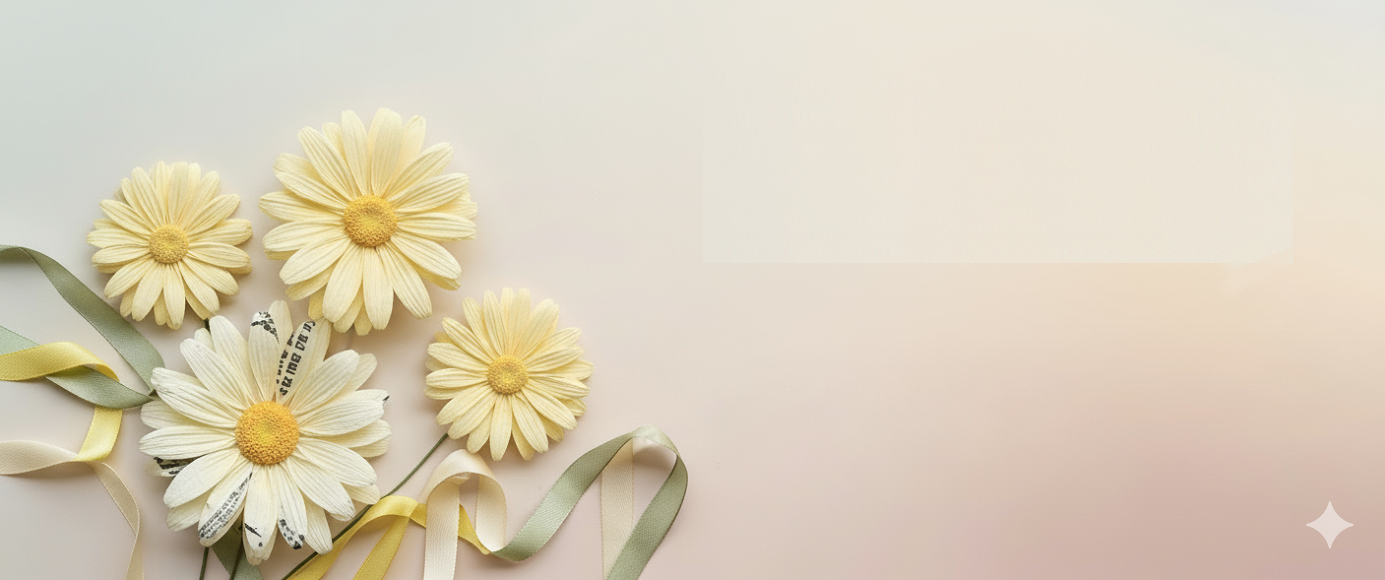
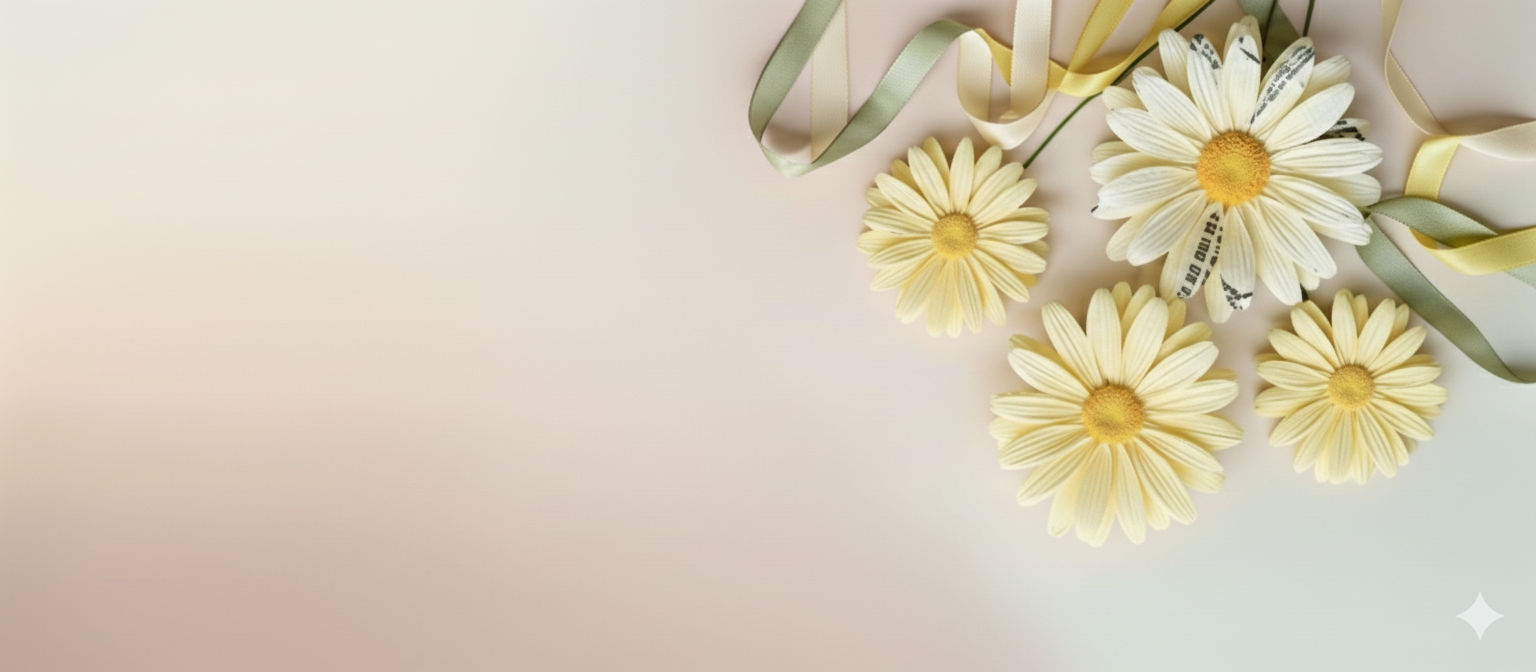
cambios finales

diff --git a/nosotros.html b/nosotros.html
@@ -7,71 +7,37 @@
   <link rel="stylesheet" href="https://cdn.jsdelivr.net/npm/bootstrap@5.3.7/dist/css/bootstrap.min.css">
   <link rel="stylesheet" href="https://cdn.jsdelivr.net/npm/bootstrap-icons/font/bootstrap-icons.css">
   <link rel="stylesheet" href="styles.css">
-  <link rel="stylesheet" href="/css/styles.css">
-  <link rel="stylesheet" href="https://fonts.googleapis.com/css2?family=Material+Symbols+Outlined" />
 </head>
 <body>
   <!-- Header -->
   <header>
-    <nav class="navbar navbar-expand-lg bg-body-tertiary fixed-top">
-  <div class="container-fluid">
-
-    <!-- logo -->
-    <a class="navbar-brand" href="index.html">Cataleya</a>
-
-    <!-- hamburguesa -->
-    <button class="navbar-toggler" type="button" data-bs-toggle="collapse" data-bs-target="#navbarNavDropdown">
-      <span class="navbar-toggler-icon"></span>
-    </button>
-
-    <form class="d-flex" role="search">
-          <input class="form-control me-2" type="Search" placeholder="Buscar">
-          <button class="btn btn-outline-success" type="submit">Buscar</button>
-        </form>
-
-    <!-- contenedor flex para menú + buscador + botones -->
-    <div class="collapse navbar-collapse d-flex justify-content-between" id="navbarNavDropdown">
-
-      <!-- menu -->
-      <ul class="navbar-nav mx-auto">
-        <li class="nav-item"><a class="nav-link active" href="index.html">Inicio</a></li>
-        <li class="nav-item"><a class="nav-link" href="nosotros.html">Nosotros</a></li>
-        <li class="nav-item dropdown">
-          <a class="nav-link dropdown-toggle" href="catalogo.html" data-bs-toggle="dropdown">Catalogo</a>
-          <ul class="dropdown-menu">
-            <li><a class="dropdown-item" href="catalogo.html">Cumpleaños</a></li>
-            <li><a class="dropdown-item" href="catalogo.html">Graduaciones</a></li>
-            <li><a class="dropdown-item" href="catalogo.html">Eventos especiales</a></li>
-          </ul>
-        </li>
-        <li class="nav-item"><a class="nav-link" href="contacto.html">Contacto</a></li>
-      </ul>
-
-      <!-- sign y login -->
-      <div class="d-flex align-items-center gap-2">
-        <button class="btn btn-light" id="cart" >
-            <span class="material-symbols-outlined">
-         shopping_cart
-            </span>
+    <nav class="navbar navbar-expand-lg bg-body-tertiary fixed-top shadow-sm">
+      <div class="container-fluid">
+        <a class="navbar-brand fw-bold" href="index.html">Cataleya</a>
+        <button class="navbar-toggler" type="button" data-bs-toggle="collapse" data-bs-target="#navbarNavDropdown">
+          <span class="navbar-toggler-icon"></span>
         </button>
-
-                    <p id="datos-usuario" class="oculto"></p>
-                    <button class="btn btn-secondary shadow" class="oculto" id="btn-logout">
-                        Cerrar Sesión
-                    </button>
-                    <button class="btn btn-primary shadow" data-bs-toggle="modal" data-bs-target="#loginModal" id="btn-open-login">
-                        Iniciar Sesión
-                    </button>
+        <div class="collapse navbar-collapse justify-content-between" id="navbarNavDropdown">
+          <ul class="navbar-nav mx-auto">
+            <li class="nav-item"><a class="nav-link" href="index.html">Inicio</a></li>
+            <li class="nav-item"><a class="nav-link active" href="nosotros.html">Nosotros</a></li>
+            <li class="nav-item dropdown">
+              <a class="nav-link dropdown-toggle" href="catalogo.html" data-bs-toggle="dropdown">Catálogo</a>
+              <ul class="dropdown-menu">
+                <li><a class="dropdown-item" href="catalogo.html">Cumpleaños</a></li>
+                <li><a class="dropdown-item" href="catalogo.html">Graduaciones</a></li>
+                <li><a class="dropdown-item" href="catalogo.html">Eventos especiales</a></li>
+              </ul>
+            </li>
+            <li class="nav-item"><a class="nav-link" href="contacto.html">Contacto</a></li>
+          </ul>
+        </div>
       </div>
-
-    </div>
-
-  </div>
-</nav>
+    </nav>
   </header>
 
   <!-- Hero Section -->
-  <section class="hero bg-light py-5 mt-5 text-center">
+  <section class="hero py-5 mt-4 text-center" id="banner-nosotros">
     <div class="container">
       <h1 class="fw-bold">Sobre Nosotros</h1>
       <p class="lead">Flores eternas y detalles que inspiran recuerdos inolvidables</p>
@@ -101,7 +67,7 @@
     </div>
   </section>
   <!-- introduccion de nosotras -->
-  <section class="hero py-5 mt-5 text-center">
+  <section class="hero py-5 mt-5 text-center pink">
     <div class="container">
       <h1 class="fw-bold">te brindamos la confianza necesaria para pensar y contar con nosotros 
                             en esos momentos especiales</h1>
@@ -144,7 +110,7 @@
     <div class="container">
       <h2 class="fw-bold">¿Listo para sorprender con flores eternas?</h2>
       <p>Haz tu pedido ahora y lleva un detalle que durará por siempre.</p>
-      <a href="contacto.html" class="btn btn-light btn-lg">Contactar</a>
+      <a href="contacto.html" class="btn btn-primary">Contactar</a>
     </div>
   </section>
 
@@ -190,76 +156,6 @@
     </div>
   </footer>
 
-<!-- Modal de logueo -->
-    <div class="modal fade" id="loginModal" tabindex="-1" aria-labelledby="loginModalLabel" aria-hidden="true">
-        <div class="modal-dialog">
-            <div class="modal-content">
-                <div class="modal-header">
-                    <h5 class="modal-title" id="loginModalLabel">Iniciar Sesión</h5>
-                    <button type="button" class="btn-close" data-bs-dismiss="modal" aria-label="Close"></button>
-                </div>
-                <div class="modal-body">
-                    <form>
-                        <div class="mb-3">
-                            <label for="loginEmail" class="form-label">Correo electrónico</label>
-                            <input type="email" class="form-control" id="loginEmail" placeholder="nombre@ejemplo.com">
-                        </div>
-                        <div class="mb-3">
-                            <label for="loginPassword" class="form-label">Contraseña</label>
-                            <input type="password" class="form-control" id="loginPassword" placeholder="********">
-                        </div>
-                    </form>
-                </div>
-                <div class="modal-footer d-flex justify-content-between">
-                      <button type="button" class="btn btn-primary" id="btn-login">Ingresar</button>
-                    <button type="button" class="btn btn-link" id="btn-open-register">¿No tienes cuenta? Regístrate</button>
-                </div>
-            </div>
-        </div>
-    </div>
-<!-- Modal de registro -->
-    <div class="modal fade" id="registerModal" tabindex="-1" aria-labelledby="registerModalLabel" aria-hidden="true">
-        <div class="modal-dialog">
-            <div class="modal-content">
-                <div class="modal-header">
-                    <h5 class="modal-title" id="registerModalLabel">Registro de Usuario</h5>
-                    <button type="button" class="btn-close" data-bs-dismiss="modal" aria-label="Close"></button>
-                </div>
-                <div class="modal-body">
-                    <form>
-                        <div class="mb-3">
-                            <label for="registerName" class="form-label">Nombre de Usuario</label>
-                            <input type="text" class="form-control" id="registerName" placeholder="Tu nombre completo">
-                        </div>
-                        <div class="mb-3">
-                            <label for="registerEmail" class="form-label">Correo electrónico</label>
-                            <input type="email" class="form-control" id="registerEmail" placeholder="nombre@ejemplo.com">
-                        </div>
-                        <div class="mb-3">
-                            <label for="registerPassword" class="form-label">Contraseña</label>
-                            <input type="password" class="form-control" id="registerPassword" placeholder="********">
-                        </div>
-                        <div class="mb-3">
-                            <label for="confirmPassword" class="form-label">Confirmar Contraseña</label>
-                            <input type="password" class="form-control" id="confirmPassword" placeholder="********">
-                        </div>
-                    </form>
-                </div>
-                <div class="modal-footer d-flex justify-content-between">
-                    <button type="button" class="btn btn-secondary" id="btn-back-to-login">Regresar a Iniciar Sesión</button>
-                    <button type="button" class="btn btn-success" id="btn-register">Registrar</button>
-                </div>
-            </div>
-        </div>
-    </div>
-
-
-   
- <script src="https://cdn.jsdelivr.net/npm/bootstrap@5.0.2/dist/js/bootstrap.bundle.min.js" integrity="sha384-MrcW6ZMFYlzcLA8Nl+NtUVF0sA7MsXsP1UyJoMp4YLEuNSfAP+JcXn/tWtIaxVXM" crossorigin="anonymous"></script>
-    <script src="js/script.js"></script>
-    <script src="js/registro.js"></script>
-    <script src="js/logueo.js"></script>
-    <script src="js/mostrarUsuarios.js"></script>
-
+  <script src="https://cdn.jsdelivr.net/npm/bootstrap@5.0.2/dist/js/bootstrap.bundle.min.js"></script>
 </body>
 </html>

diff --git a/styles.css b/styles.css
@@ -426,3 +426,80 @@ color: #e69a00;
   from { opacity: 0; transform: scale(0.9);}
   to   { opacity: 1; transform: scale(1);}
 }
+
+.testimonios-seccion {
+  padding: 50px 20px;
+  background-color: #f8f8f8; /* Color de fondo similar al de la imagen */
+  display: flex;
+  flex-direction: column;
+  gap: 30px; /* Espacio entre los testimonios */
+  max-width: 900px;
+  margin: 0 auto;
+}
+
+.testimonial-contenedor {
+  display: flex;
+  align-items: center;
+  gap: 30px; /* Espacio entre el texto y la imagen */
+  background-color: #ffffff;
+  padding: 20px;
+  border-radius: 8px;
+  box-shadow: 0 4px 6px rgba(0, 0, 0, 0.1); /* Sombra para el recuadro */
+}
+
+.testimonial-contenedor:nth-child(even) {
+  flex-direction: row-reverse; /* Para invertir el orden de la segunda caja */
+}
+
+.testimonial-contenido {
+  flex: 1;
+}
+
+.testimonial-imagen {
+  flex: 1;
+  max-width: 45%; /* Ancho de la imagen */
+  text-align: center;
+}
+
+.testimonial-imagen img {
+  width: 100%;
+  height: auto;
+  border-radius: 8px; /* Bordes redondeados para la imagen */
+}
+
+.comillas {
+  font-size: 4em; /* Tamaño grande para las comillas */
+  color: #c0c0c0; /* Color gris suave */
+  font-family: serif;
+  margin-bottom: -20px;
+  line-height: 0.5;
+}
+
+.testimonial-texto {
+  font-size: 1.2em;
+  line-height: 1.6;
+  color: #333;
+  margin: 0;
+  font-family: Arial, Helvetica, sans-serif; /* Fuente similar a la de la imagen */
+}
+.bg-rose {
+  background-color: #f0dedf; /* rosado pastel */
+}
+
+.pink {
+  background-color: #e0c9cb;
+}
+
+#banner-nosotros {
+    background: 
+    linear-gradient(rgba(228, 178, 186, 0.37), rgba(255, 255, 255, 0.466)),
+    url("/imgs/nosotros banner.png") center/cover no-repeat;
+  background-position: center;   /* centra la imagen */
+  background-repeat: no-repeat;  /* evita que se repita */
+  background-size: cover;        /* que cubra todo el contenedor sin deformarse */
+  height: 300px;                 /* ajusta la altura del banner */
+  display: flex;                 /* opcional: para centrar el texto */
+  justify-content: center;
+  align-items: center;
+  color: rgb(0, 0, 0);                  /* texto visible si la imagen es oscura */
+}

diff --git a/index.html b/index.html
@@ -88,21 +88,19 @@
 </div>
 
       </div>
-
       <div class="carousel-item">
         <img src="imgs/carusel2.png" class="d-block w-100" alt="...">
         <div class="carousel-caption custom-caption">
 
         </div>
       </div>
-
+      
       <div class="carousel-item">
         <img src="imgs/carusel3.png" class="d-block w-100" alt="...">
-        <div class="carousel-caption custom-caption-left">
+        <div class="carousel-caption custom-caption">
           <h2>Detalles únicos</h2>
           <p>Cada pieza con amor y dedicación</p>
         </div>
-        
       </div>
     </div>
     <button class="carousel-control-prev" type="button" data-bs-target="#carouselExampleControls" data-bs-slide="prev">
